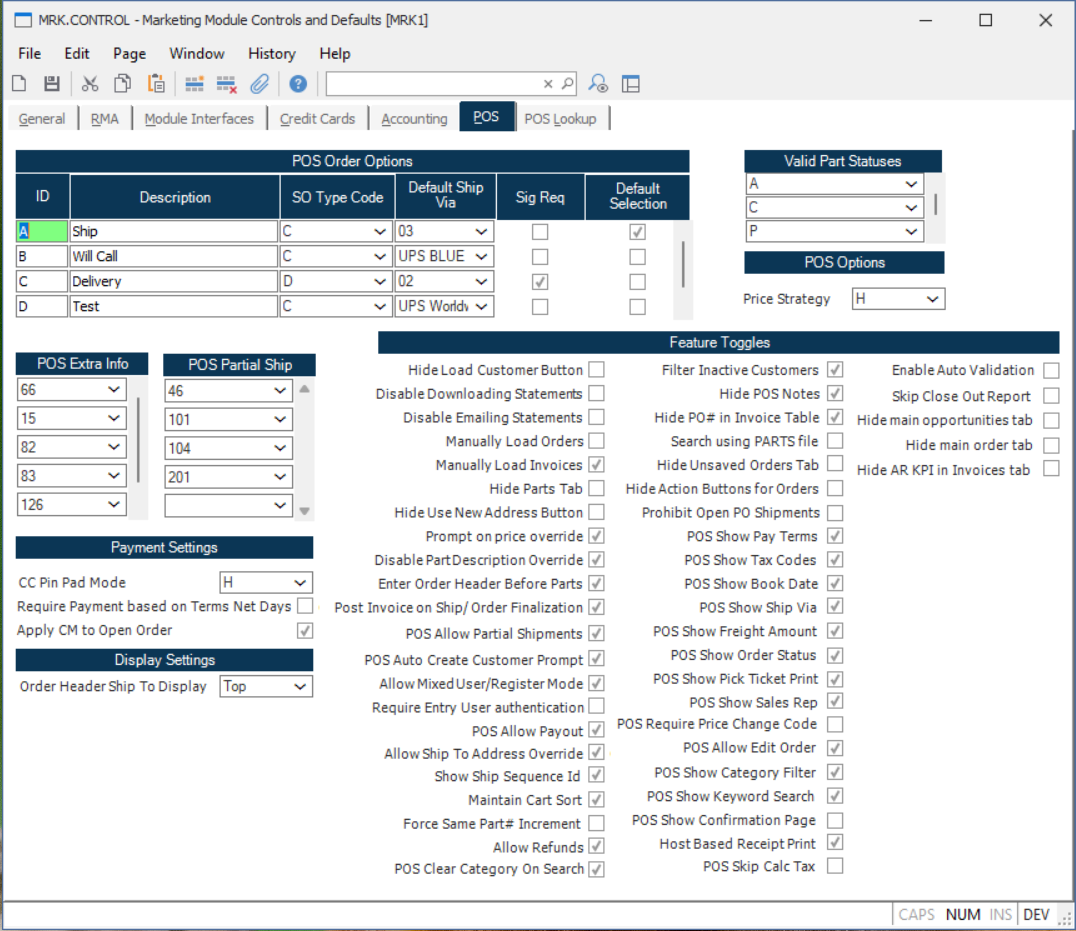
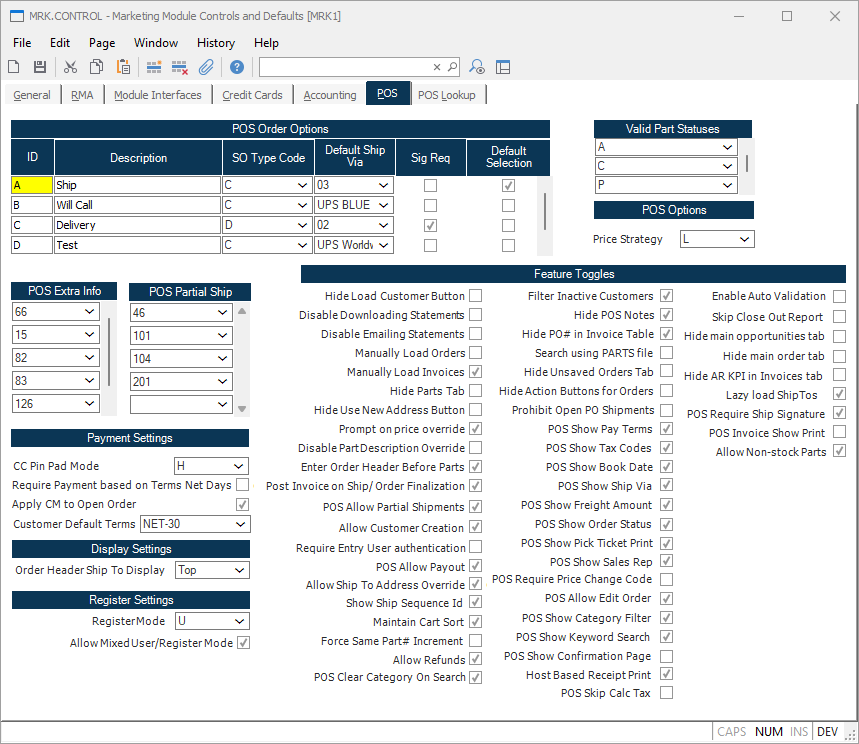
add 2.5 draft notes, move signature capture there, add 2.4 details

Changed region(s): [[0.0, 0.0, 1.0, 1.0], [0.8475, 0.0, 0.8778, 0.0309]]

diff --git a/site/rover/release-notes/web/2-4-0/README.md b/site/rover/release-notes/web/2-4-0/README.md
@@ -9,13 +9,16 @@ These are the release notes for version 2.4.0 (TBD) of the Rover Web application
 ## New Features
 
 - **Rover Web**
+    - **General**
+      - Added support for custom company logo to display in the header of Rover Web after login.  This logo is distinct from the logo used for the login page.
     - **Point of Sale**
-    - Add ability to require signature when finalizing orders. Requires update to [MRK.CONTROL](../../../../rover/AP-OVERVIEW/AP-ENTRY/AP-E/AP-E-1/CURRENCY-CONTROL/SO-E/MRK-CONTROL/MRK-CONTROL-6/README.md#pos-require-ship-signature).
-  - ** General **
+      - Adds ability to add non-stock items to orders.. Requires update to [MRK.CONTROL](../../../../rover/AP-OVERVIEW/AP-ENTRY/AP-E/AP-E-1/CURRENCY-CONTROL/SO-E/MRK-CONTROL/MRK-CONTROL-6/README.md#allow-non-stock-parts).
+        ![Part View](./inventory-parts-2.png)  
 
 ## Bug Fixes
 
 - **Rover Web**
-    - **General**
+    - **Point of Sale**
+      - Addresses an issue with required field validation enforcement in specific Point of Sale workflows.
     
   

diff --git a/site/rover/release-notes/web/2-5-0/README.md b/site/rover/release-notes/web/2-5-0/README.md
@@ -1,0 +1,21 @@
+# Rover Web v2.5.0 Draft Release Notes
+
+<badge text= "Version 2.5.0 Draft" vertical="middle" />
+
+<PageHeader />
+
+These are the release notes for version 2.4.0 (TBD) of the Rover Web application and can be made available to customers running _Rover ERP_, _IMACS_ and other non-Zumasys owned systems. Contact your _Client Success Manager_, [Sales](mailto:sales@zumasys.com?subject=Rover%20Web%20v2.5.0) or [Support](mailto:help@zumasys.com?subject=Rover%20Web%20v2.5.0) today!
+
+## New Features
+
+- **Rover Web**
+    - **Point of Sale**
+    - Add ability to require signature when finalizing orders. Requires update to [MRK.CONTROL](../../../../rover/AP-OVERVIEW/AP-ENTRY/AP-E/AP-E-1/CURRENCY-CONTROL/SO-E/MRK-CONTROL/MRK-CONTROL-6/README.md#pos-require-ship-signature).
+  - ** General **
+
+## Bug Fixes
+
+- **Rover Web**
+    - **General**
+    
+  

diff --git a/site/rover/AP-OVERVIEW/AP-ENTRY/AP-E/AP-E-1/CURRENCY-CONTROL/SO-E/MRK-CONTROL/MRK-CONTROL-6/README.md b/site/rover/AP-OVERVIEW/AP-ENTRY/AP-E/AP-E-1/CURRENCY-CONTROL/SO-E/MRK-CONTROL/MRK-CONTROL-6/README.md
@@ -66,6 +66,10 @@ Checking this box will display a button to show a dialog to create a new custome
 
 Checking this box will require a signature when finalizing an order.
 
+### Allow Non-stock Parts
+
+Checking this box will allow non-stock items to be added via the cart view in Point of Sale.
+
 <badge text= "Version 1.7.19.0" vertical="middle" />
 
 <PageFooter />
